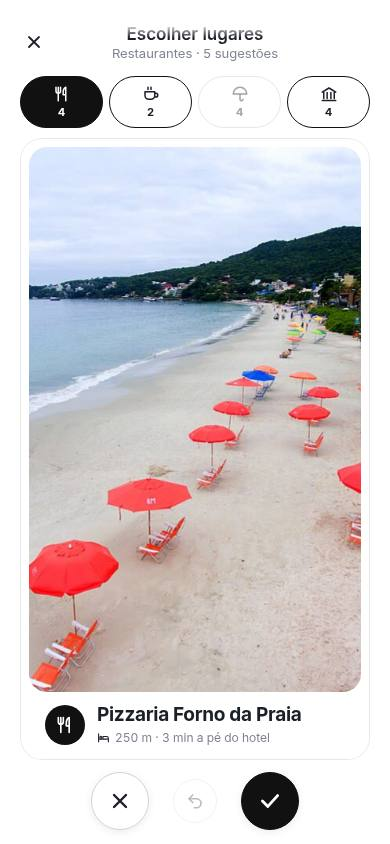
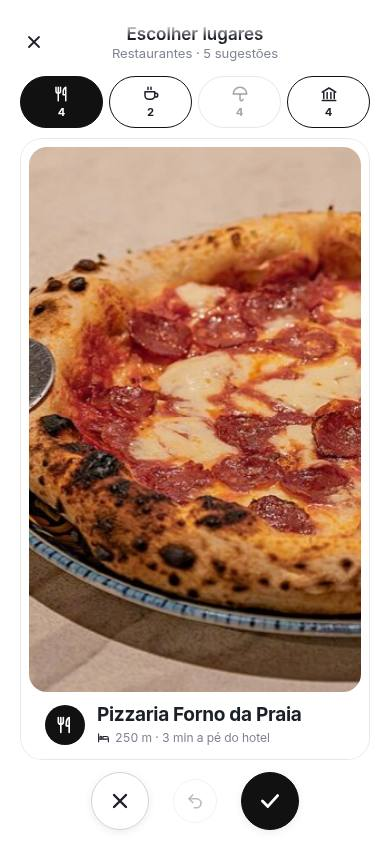
Apresentação sempre depois do login; correções da auditoria: barra não cobre conteúdo, fotos certas por lugar, frases do pensando completas, categorias vazias somem, desktop montar e apresentação, título no mesmo padrão, etapa alinhada, calendário com os mesmos dias, toques de 44px, textos sem corta

diff --git a/app.html b/app.html
@@ -17,18 +17,18 @@ else { try { if (localStorage.getItem('partiu.modo') === 'celular') document.doc
 <link rel="preconnect" href="https://fonts.googleapis.com">
 <link rel="stylesheet" href="https://fonts.googleapis.com/css2?family=Inter:ital,wght@0,400;0,500;0,600;0,700;1,600;1,700&display=swap">
 <link rel="stylesheet" href="https://cdnjs.cloudflare.com/ajax/libs/maplibre-gl/4.7.1/maplibre-gl.css">
-<link rel="stylesheet" href="css/base.css?v=76">
-<link rel="stylesheet" href="css/screens/onboarding.css?v=76">
-<link rel="stylesheet" href="css/screens/quiz.css?v=76">
-<link rel="stylesheet" href="css/screens/loading.css?v=76">
-<link rel="stylesheet" href="css/screens/plan.css?v=76">
-<link rel="stylesheet" href="css/screens/map.css?v=76">
-<link rel="stylesheet" href="css/screens/login.css?v=76">
-<link rel="stylesheet" href="css/screens/feed.css?v=76">
-<link rel="stylesheet" href="css/screens/conta.css?v=76">
-<link rel="stylesheet" href="css/pill.css?v=76">
-<link rel="stylesheet" href="css/motion.css?v=76">
-<link rel="stylesheet" href="css/desktop.css?v=76">
+<link rel="stylesheet" href="css/base.css?v=79">
+<link rel="stylesheet" href="css/screens/onboarding.css?v=79">
+<link rel="stylesheet" href="css/screens/quiz.css?v=79">
+<link rel="stylesheet" href="css/screens/loading.css?v=79">
+<link rel="stylesheet" href="css/screens/plan.css?v=79">
+<link rel="stylesheet" href="css/screens/map.css?v=79">
+<link rel="stylesheet" href="css/screens/login.css?v=79">
+<link rel="stylesheet" href="css/screens/feed.css?v=79">
+<link rel="stylesheet" href="css/screens/conta.css?v=79">
+<link rel="stylesheet" href="css/pill.css?v=79">
+<link rel="stylesheet" href="css/motion.css?v=79">
+<link rel="stylesheet" href="css/desktop.css?v=79">
 </head>
 <body>
 <a class="dev-link" href="telas.html">← Todas as telas</a>
@@ -222,21 +222,21 @@ else { try { if (localStorage.getItem('partiu.modo') === 'celular') document.doc
 <script src="https://cdnjs.cloudflare.com/ajax/libs/leaflet/1.9.4/leaflet.js"></script>
 <script src="https://cdnjs.cloudflare.com/ajax/libs/maplibre-gl/4.7.1/maplibre-gl.js"></script>
 <script src="https://cdn.jsdelivr.net/npm/@maplibre/maplibre-gl-leaflet@0.0.22/leaflet-maplibre-gl.js"></script>
-<script src="js/data.js?v=76"></script>
-<script src="js/core.js?v=76"></script>
-<script src="js/ui/hnav.js?v=76"></script>
-<script src="js/screens/intro.js?v=76"></script>
-<script src="js/screens/quiz.js?v=76"></script>
-<script src="js/screens/loading.js?v=76"></script>
-<script src="js/screens/plan.js?v=76"></script>
-<script src="js/screens/map.js?v=76"></script>
-<script src="js/trips.js?v=76"></script>
-<script src="js/export.js?v=76"></script>
-<script src="js/screens/feed.js?v=76"></script>
-<script src="js/screens/conta.js?v=76"></script>
-<script src="js/screens/login.js?v=76"></script>
-<script src="js/main.js?v=76"></script>
+<script src="js/data.js?v=79"></script>
+<script src="js/core.js?v=79"></script>
+<script src="js/ui/hnav.js?v=79"></script>
+<script src="js/screens/intro.js?v=79"></script>
+<script src="js/screens/quiz.js?v=79"></script>
+<script src="js/screens/loading.js?v=79"></script>
+<script src="js/screens/plan.js?v=79"></script>
+<script src="js/screens/map.js?v=79"></script>
+<script src="js/trips.js?v=79"></script>
+<script src="js/export.js?v=79"></script>
+<script src="js/screens/feed.js?v=79"></script>
+<script src="js/screens/conta.js?v=79"></script>
+<script src="js/screens/login.js?v=79"></script>
+<script src="js/main.js?v=79"></script>
 <script>window.PHONE_NATIVE = true;</script>
-<script src="js/viewmode.js?v=76"></script>
+<script src="js/viewmode.js?v=79"></script>
 </body>
 </html>

diff --git a/css/screens/plan.css b/css/screens/plan.css
@@ -42,7 +42,7 @@
 @keyframes pop-in { from { opacity: 0; transform: scale(.94); } }
 .ev-time { min-height: 48px; border: 0; border-radius: 10px; background: none; display: flex; flex-direction: column; align-items: flex-start; justify-content: center; gap: 1px; padding: 0 4px; font-size: 15px; font-weight: 700; font-variant-numeric: tabular-nums; text-align: left; }
 .ev-time:hover { background: var(--fill); }
-.ev-time small { font-size: 10px; font-weight: 500; color: var(--sec); }
+.ev-time small { font-size: 11px; font-weight: 500; color: var(--sec); }
 .ev-card { display: flex; align-items: center; gap: 10px; padding: 6px 0 6px 6px; border-radius: 14px; background: var(--fill); }
 .ev.dragging .ev-card { opacity: .3; }
 .tx { flex: 1; min-width: 0; display: flex; flex-direction: column; gap: 3px; }
@@ -177,7 +177,7 @@
 .tl-head { padding-top: 16px; }
 .tl-head strong { font-size: 20px; }
 .tl-sum { display: flex; flex-wrap: nowrap; overflow-x: auto; gap: 6px; margin: 2px 0 14px; animation: rise-in .4s cubic-bezier(.2, .8, .2, 1) backwards; }
-.tl-sum span { flex: none; display: inline-flex; align-items: center; gap: 5px; min-height: 32px; padding: 0 11px; border-radius: 999px; background: var(--fill); color: var(--brand); font-size: 12.5px; font-weight: 600; font-variant-numeric: tabular-nums; white-space: nowrap; }
+.tl-sum span { flex: none; display: inline-flex; align-items: center; gap: 5px; min-height: 32px; padding: 0 11px; border-radius: 999px; background: var(--fill); color: var(--brand); font-size: 13px; font-weight: 600; font-variant-numeric: tabular-nums; white-space: nowrap; }
 .ev { grid-template-columns: 44px 20px minmax(0, 1fr); gap: 8px; }
 .ev-time { padding: 0; font-size: 15px; color: var(--ink); }
 .ev-time small { font-size: 11px; line-height: 1.2; }
@@ -238,7 +238,7 @@
 
 /* levar para fora: agenda e Google Maps */
 .tl-out, .when-out, .rt-out { display: grid; grid-template-columns: 1fr 1fr; gap: 8px; margin: 0 0 14px; }
-.tl-out .pill, .when-out .pill, .rt-out .pill { display: inline-flex; align-items: center; justify-content: center; gap: 7px; min-height: 42px; padding: 0 12px; border: 1px solid var(--line); background: var(--surface); text-decoration: none; color: var(--ink); font-weight: 600; font-size: 13.5px; white-space: nowrap; }
+.tl-out .pill, .when-out .pill, .rt-out .pill { display: inline-flex; align-items: center; justify-content: center; gap: 7px; min-height: 42px; padding: 0 12px; border: 1px solid var(--line); background: var(--surface); text-decoration: none; color: var(--ink); font-weight: 600; font-size: 14px; white-space: nowrap; }
 .tl-out .pill:hover, .when-out .pill:hover, .rt-out .pill:hover { border-color: var(--ink); }
 .when-out { margin: 14px 0 4px; justify-content: center; }
 .rt-out { margin: 14px 8px 2px; }
@@ -250,3 +250,12 @@
 /* cartão de deslizar: a foto fica inteira arredondada (em cima e embaixo), com respiro dentro do cartão */
 .dcard { padding: 8px 8px 0; }
 .dcard .photo { border-radius: 18px; }
+
+/* toques confortáveis (mínimo 44px): botões pequenos ganham área invisível de toque */
+.ev-card .rm { width: 40px; height: 44px; }
+.ins { min-height: 44px; }
+.ins span { width: 32px; height: 32px; }
+.ev-card .handle { width: 28px; height: 44px; }
+/* nomes das paradas em até duas linhas, sem cortar */
+.ev-card .tx strong { white-space: normal; display: -webkit-box; -webkit-line-clamp: 2; -webkit-box-orient: vertical; }
+.ev-card .dist { white-space: normal; }

diff --git a/css/base.css b/css/base.css
@@ -32,8 +32,6 @@ button { font: inherit; color: inherit; cursor: pointer; -webkit-tap-highlight-c
 button:focus-visible, input:focus-visible, a:focus-visible { outline: 2px solid var(--brand); outline-offset: 2px; }
 h1, h2, p { margin: 0; }
 h1 { font-size: 30px; font-weight: 700; line-height: 1.15; letter-spacing: -0.7px; text-wrap: balance; }
-.q-title h1 { font-style: italic; font-weight: 600; color: #3A3F4A; }
-.q-title h1 em { font-weight: 700; }
 h1 em { font-style: italic; color: var(--brand); }
 
 .phone { position: relative; width: 402px; height: 874px; max-height: none; background: var(--surface); border-radius: 58px; overflow: hidden; overflow: clip; box-shadow: 0 0 0 11px #0B0B0D, 0 0 0 13px #3B3B40, 0 0 0 14px #1A1A1D, 0 40px 90px rgba(0, 0, 0, .28); } /* proporção do iPhone 17 Pro (402 × 874 pt) */
@@ -127,6 +125,15 @@ html.embed .device-ui { display: flex !important; }
 @media (min-width: 900px) { html.phone-mode { --safe-top: 68px; } }
 html.embed { --safe-top: 68px; }
 /* degradê branco no topo das telas que rolam: o conteúdo some suave embaixo da barra de status / notch */
-.phone::after { content: ""; position: absolute; z-index: 3500; left: 0; right: 0; top: 0; height: calc(var(--safe-top) + 18px); background: linear-gradient(#fff 62%, rgba(255,255,255,0)); pointer-events: none; opacity: 0; transition: opacity .2s; }
+.phone::after { content: ""; position: absolute; z-index: 3500; left: 0; right: 0; top: 0; height: var(--safe-top); background: linear-gradient(#fff 55%, rgba(255,255,255,0)); pointer-events: none; opacity: 0; transition: opacity .2s; }
 html[data-screen="plan"] .phone::after, html[data-screen="feed"] .phone::after, html[data-screen="conta"] .phone::after, html[data-screen="quiz"] .phone::after { opacity: 1; }
 @media (min-width: 900px) { html:not(.phone-mode) .phone::after { display: none; } }
+
+/* padrão único de título: grafite, negrito, só a palavra-chave em itálico (telas de etapa, abas e painéis) */
+h1, .tab-title h1, .q-title h1 { font-weight: 700; color: var(--ink); font-style: normal; letter-spacing: -0.7px; }
+h1 em { font-style: italic; color: inherit; }
+.places-head h2, .tl-head strong, .ct-sec-head h2, .sheet-head strong { font-size: 20px; font-weight: 700; letter-spacing: -0.4px; }
+/* 11. cabeçalho das etapas: "Etapa x de 4" alinhado à esquerda, junto do voltar, como os outros cabeçalhos */
+.q-head { justify-content: flex-start !important; gap: 6px; }
+.q-head #qStep { flex: 1; font-size: 15px; font-weight: 600; color: var(--ink); }
+.cal-week span { text-transform: capitalize; font-size: 12px; }

diff --git a/js/core.js b/js/core.js
@@ -44,14 +44,14 @@ const ICON = {
 // Fotos reais do litoral (img/, créditos em img/CREDITOS.md), escolhidas pelo nome do lugar.
 const PHOTOS = [
   [/laranjeiras/i, 'laranjeiras'], [/unipraias|bondinho/i, 'unipraias'], [/cristo/i, 'cristo-luz'], [/estaleiro/i, 'estaleiro'],
-  [/barra sul|molhe/i, 'barra-sul'], [/praia grossa|plaza/i, 'praia-grossa'], [/bombas|caixa d/i, 'bombas'], [/bom jesus|aflitos/i, 'igreja-porto-belo'],
-  [/rio tijucas|margem do rio|tijucas/i, 'rio-tijucas'], [/golfinho/i, 'golfinhos'], [/bar |m[uú]sica ao vivo|feirinha|noturn/i, 'bar'],
-  [/praia central|orla/i, 'praia-central'], [/p[oô]r do sol/i, 'por-do-sol'], [/meia praia|itapema|canto da praia/i, 'post1'],
-  [/trilha|mirante|ilha|barco|ara[cç][aá]/i, 'post3'], [/praia|paddle/i, 'manha-praia'],
+  [/molhe|barco pirata/i, 'barra-sul'], [/praia grossa|plaza/i, 'praia-grossa'], [/bombas|caixa d/i, 'bombas'], [/bom jesus|aflitos|igreja|casar[aã]o|museu|centro hist/i, 'igreja-porto-belo'],
+  [/rio tijucas|margem do rio|praia de tijucas/i, 'rio-tijucas'], [/golfinho/i, 'golfinhos'], [/bar |m[uú]sica ao vivo|feirinha|noturn/i, 'bar'],
+  [/praia central/i, 'praia-central'],
+  [/trilha|mirante|ilha|barco|ara[cç][aá]/i, 'post3'],
   [/sorvet/i, 'sorvete'], [/padaria|p[aã]o/i, 'padaria'], [/caf[eé]|gr[aã]o/i, 'cafe'], [/pizz/i, 'pizza'], [/cantina|italian|massa/i, 'cantina'],
   [/sushi|japones/i, 'sushi'], [/ostra/i, 'ostras'], [/hamb[uú]rg/i, 'hamburguer'],
   [/brasa|grelha|camar/i, 'mar-brasa'], [/frutos do mar|peix|cais/i, 'frutos-mar'], [/jantar|bistr|restaurante|engenho|almo[cç]o|contempor/i, 'jantar'],
-  [/hotel|pousada/i, 'hotel']
+  [/hotel|pousada/i, 'hotel'], [/p[oô]r do sol|barra sul/i, 'por-do-sol'], [/meia praia|itapema|canto da praia/i, 'post1'], [/praia|paddle/i, 'manha-praia']
 ];
 const photoFor = (text) => { const hit = PHOTOS.find(([re]) => re.test(text || '')); return hit ? `img/${hit[1]}.jpg` : null; };
 const svg = (name, size = 20, sw = 2) => `<svg width="${size}" height="${size}" viewBox="0 0 24 24" fill="none" stroke="currentColor" stroke-width="${sw}" stroke-linecap="round" stroke-linejoin="round" aria-hidden="true">${ICON[name]}</svg>`;

diff --git a/css/screens/map.css b/css/screens/map.css
@@ -14,7 +14,7 @@
 .wx small { font-size: 11px; font-weight: 500; color: var(--sec); white-space: nowrap; }
 .fab { position: absolute; z-index: 1001; right: 16px; bottom: calc(var(--sheet-h, 50%) + 12px); transition: bottom .3s cubic-bezier(.2, .8, .2, 1); width: 44px; height: 44px; border: 0; border-radius: 22px; background: var(--surface); box-shadow: 0 2px 10px rgba(0,0,0,.14); display: grid; place-items: center; }
 .sheet { position: absolute; left: 0; right: 0; bottom: 0; z-index: 1002; height: var(--sheet-h, 50%); background: var(--surface); border-radius: 20px 20px 0 0; box-shadow: 0 -4px 20px rgba(0,0,0,.08); display: flex; flex-direction: column; transition: height .5s cubic-bezier(.22, 1, .36, 1); touch-action: none; user-select: none; -webkit-user-select: none; }
-.sheet .list { touch-action: pan-y; padding-bottom: 110px; }
+.sheet .list { touch-action: pan-y; padding-bottom: 130px; scroll-padding-bottom: 130px; }
 .sheet .chips, .sheet .day-strip { touch-action: pan-x; }
 #main.resizing .sheet, #main.resizing .fab, #main.resizing .leaflet-bottom { transition: none; }
 .sheet.collapsed .list, .sheet.collapsed .day-strip { visibility: hidden; }
@@ -145,3 +145,9 @@
 .now-ic { background: var(--fill); }
 .now .now-go { background: var(--surface); border: 1px solid var(--ink); color: var(--ink); }
 .now .now-go:hover { background: var(--ink); color: #fff; }
+
+.fab { width: 44px; height: 44px; }
+/* 14. crédito do mapa discreto, num canto que não briga com o painel */
+.leaflet-control-attribution { margin: 0 8px 8px 0; padding: 2px 8px; border-radius: 999px; background: rgba(255,255,255,.75); font-size: 9px; opacity: .8; }
+.leaflet-bottom.leaflet-left { left: auto; right: 0; }
+#main .leaflet-bottom.leaflet-left .leaflet-control-attribution { margin-right: 66px; }

diff --git a/css/screens/conta.css b/css/screens/conta.css
@@ -1,6 +1,6 @@
 /* ---------- conta: no mesmo padrão das outras abas (título grande, linhas de lista, pílulas) ---------- */
 #conta { background: var(--surface); }
-.conta-scroll { flex: 1; min-height: 0; overflow-y: auto; padding: 0 0 120px; }
+.conta-scroll { flex: 1; min-height: 0; overflow-y: auto; padding: 0 0 140px; }
 .ct-me { display: flex; align-items: center; gap: 14px; margin: 10px 20px 0; padding: 14px 14px 14px 14px; border-radius: 999px; background: var(--fill); animation: rise-in .45s .06s cubic-bezier(.2, .8, .2, 1) backwards; }
 .ct-av { flex: none; width: 52px; height: 52px; border-radius: 50%; display: grid; place-items: center; font-size: 22px; font-weight: 700; color: #fff; background: var(--brand); }
 .ct-me .tx { flex: 1; min-width: 0; display: flex; flex-direction: column; gap: 1px; }
@@ -36,3 +36,5 @@
 .ct-name { width: 100%; min-height: 40px; border: 0; border-radius: 999px; padding: 0 14px; font: inherit; font-size: 17px; font-weight: 700; background: var(--surface); color: var(--ink); box-shadow: 0 0 0 2px var(--brand); outline: none; }
 .ct-av { overflow: hidden; }
 .ct-av img { width: 100%; height: 100%; object-fit: cover; }
+
+.ct-trip small { white-space: normal; display: -webkit-box; -webkit-line-clamp: 2; -webkit-box-orient: vertical; }

diff --git a/css/desktop.css b/css/desktop.css
@@ -113,3 +113,11 @@
 }
 @media (min-width: 900px) { html:not(.phone-mode) .bubbles { gap: 22px 26px; padding-top: 16px; } html:not(.phone-mode) .bub-ph { width: calc(var(--s) * 1.3); height: calc(var(--s) * 1.3); } html:not(.phone-mode) .bub { width: calc(var(--s) * 1.3 + 8px); } }
 @media (min-width: 900px) { html:not(.phone-mode) .amen { grid-template-columns: repeat(2, minmax(0, 1fr)); gap: 12px; } html:not(.phone-mode) .am { min-height: 120px; flex-direction: row; align-items: center; justify-content: flex-start; gap: 18px; } html:not(.phone-mode) .am-ic { width: 40px; height: 40px; } }
+@media (min-width: 900px) {
+  html:not(.phone-mode) .choose-body { min-height: calc(100% - 80px); width: min(960px, calc(100% - 64px)); grid-auto-rows: min-content; align-content: center; }
+  html:not(.phone-mode) .choice { min-height: 440px; }
+  html:not(.phone-mode) .choice-tx strong { font-size: 26px; }
+  html:not(.phone-mode) #intro { overflow: hidden; }
+  html:not(.phone-mode) .illus { overflow: hidden; inset: 0; }
+}
+@media (min-width: 900px) { html:not(.phone-mode) .choose-body { margin-left: auto !important; margin-right: auto !important; } html:not(.phone-mode) .choose { align-items: stretch; } }

diff --git a/js/screens/plan.js b/js/screens/plan.js
@@ -390,7 +390,7 @@ $('when').addEventListener('click', (e) => { if (e.target === $('when')) closeWh
 /* ---------- etapa 1: escolher lugares, uma categoria por vez (direita = quero ir, esquerda = pular) ---------- */
 let lastAct = null, busy = false;
 const pendingOf = (ty) => S.plan.sugg.filter((s) => s.type === ty);
-const stagesInUse = () => STAGES.filter((k) => [...S.plan.sugg, ...S.plan.skipped, ...chosen()].some((s) => s.type === k));
+const stagesInUse = () => STAGES.filter((k) => [...S.plan.sugg, ...S.plan.skipped].some((s) => s.type === k) || chosen().some((s) => s.type === k));
 const nextStage = () => stagesInUse().find((k) => STAGES.indexOf(k) > STAGES.indexOf(stage) && pendingOf(k).length);
 function openDiscover() {
   if (!S.plan.sugg.length && S.plan.skipped.length) { S.plan.sugg = S.plan.skipped; S.plan.skipped = []; }

diff --git a/js/screens/loading.js b/js/screens/loading.js
@@ -22,7 +22,7 @@ function startLoading() {
   });
   $('loadTitle').innerHTML = 'Pensando<i class="dots"><b>.</b><b>.</b><b>.</b></i>';
   $('loadMeta').textContent = `${c.name} · ${rangeLabel()}`;
-  const total = 3600 + Math.random() * 600, per = total / thoughts.length;
+  const per = Math.max(...thoughts.map((t) => t.length)) * 22 + 450, total = per * thoughts.length; // cada frase termina e fica um instante
   let shown = -1;
   const type = (txt) => { const el = $('loadThought'); el.textContent = ''; let i = 0; clearInterval(type.t); type.t = setInterval(() => { el.textContent = txt.slice(0, ++i); if (i >= txt.length) clearInterval(type.t); }, 22); };
   const t0 = performance.now();

diff --git a/js/screens/login.js b/js/screens/login.js
@@ -77,8 +77,12 @@ function enterApp(name, isNew) {
   seedTrips();
   // qualquer login começa pelo planejamento: destino, datas, orçamento e interesses.
   // Conta nova vê antes a apresentação (que termina no destino); as viagens já salvas ficam na aba Conta.
-  if (isNew) { S.slide = 0; return go('intro'); }
-  newTrip();
+  // depois de qualquer login: apresentação (3 telas) e, em seguida, o planejamento da viagem
+  S.slide = 0;
+  if (!isNew) saveTrip();
+  Object.assign(S, { tripId: null, plan: null, maxStep: 0, monthOff: 0, sel: null });
+  planSig = ''; mapPlan = null;
+  go('intro');
 }
 function loginError(show) { const e = $('loginErr'); if (e) e.hidden = !show; }
 

diff --git a/js/screens/quiz.js b/js/screens/quiz.js
@@ -186,7 +186,7 @@ function renderCal() {
         <button class="icon-btn" data-act="nextMonth" aria-label="Próximo mês">${svg('chevR', 18, 2.4)}</button>
       </div>
     </div>
-    <div class="cal-week" aria-hidden="true"><span>D</span><span>S</span><span>T</span><span>Q</span><span>Q</span><span>S</span><span>S</span></div>
+    <div class="cal-week" aria-hidden="true">${WEEK.map((w) => `<span>${w}</span>`).join('')}</div>
     <div class="cal-grid">${cells}</div>`;
 }
 

diff --git a/css/screens/quiz.css b/css/screens/quiz.css
@@ -264,3 +264,5 @@
 @keyframes a-steam { 0% { opacity: 0; transform: translateY(2px); } 50% { opacity: 1; } 100% { opacity: 0; transform: translateY(-2px); } }
 .am[aria-pressed="true"] svg * { animation-duration: 1s; }
 @media (prefers-reduced-motion: reduce) { .am svg * { animation: none !important; } }
+.cat-row { grid-template-columns: 10px minmax(0, 1fr) 36px 84px 36px; column-gap: 8px; }
+.cat-row b svg { display: none; }
